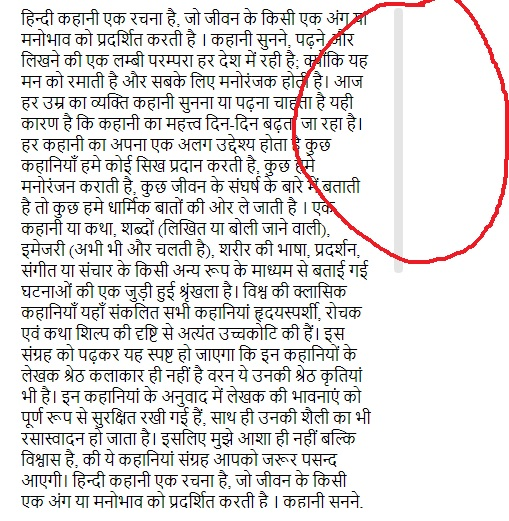
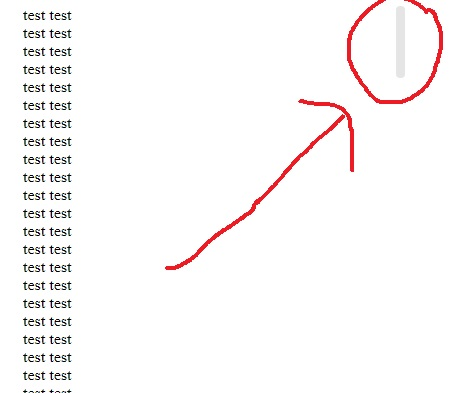
Add files via upload

diff --git a/index.html b/index.html
@@ -56,16 +56,7 @@
 <body>
 	<div class="container">
 		<div class="msg-page" sc-container>
-			हिन्दी कहानी एक रचना है, जो जीवन के किसी एक अंग या मनोभाव को प्रदर्शित करती है । कहानी सुनने, पढ़ने और लिखने की एक लम्बी परम्परा हर देश में रही है; क्योंकि यह मन को रमाती है और सबके लिए मनोरंजक होती है। आज हर उम्र का व्यक्ति कहानी सुनना या पढ़ना चाहता है यही कारण है कि कहानी का महत्त्व दिन-दिन बढ़ता जा रहा है। हर कहानी का अपना एक अलग उद्देश्य होता है कुछ कहानियाँ हमे कोई सिख प्रदान करती है, कुछ हमे मनोरंजन कराती है, कुछ जीवन के संघर्ष के बारे में बताती है तो कुछ हमे धार्मिक बातों की ओर ले जाती है ।
-			एक कहानी या कथा, शब्दों (लिखित या बोली जाने वाली), इमेजरी (अभी भी और चलती है), शरीर की भाषा, प्रदर्शन, संगीत या संचार के किसी अन्य रूप के माध्यम से बताई गई घटनाओं की एक जुड़ी हुई श्रृंखला है।
-
-विश्व की क्लासिक कहानियाँ 
-यहाँ संकलित सभी कहानियां हृदयस्पर्शी, रोचक एवं कथा शिल्प की दृष्टि से अत्यंत उच्चकोटि की हैं। इस संग्रह को पढ़कर यह स्पष्ट हो जाएगा कि इन कहानियों के लेखक श्रेठ कलाकार ही नहीं है वरन ये उनकी श्रेठ कृतियां भी है। इन कहानियां के अनुवाद में लेखक की भावनाएं को पूर्ण रूप से सुरक्षित रखी गई हैं, साथ ही उनकी शैली का भी रसास्वादन हो जाता है। इसलिए मुझे आशा ही नहीं बल्कि विश्वास है, की ये कहानियां संग्रह आपको जरूर पसन्द आएगी।
-			हिन्दी कहानी एक रचना है, जो जीवन के किसी एक अंग या मनोभाव को प्रदर्शित करती है । कहानी सुनने, पढ़ने और लिखने की एक लम्बी परम्परा हर देश में रही है; क्योंकि यह मन को रमाती है और सबके लिए मनोरंजक होती है। आज हर उम्र का व्यक्ति कहानी सुनना या पढ़ना चाहता है यही कारण है कि कहानी का महत्त्व दिन-दिन बढ़ता जा रहा है। हर कहानी का अपना एक अलग उद्देश्य होता है कुछ कहानियाँ हमे कोई सिख प्रदान करती है, कुछ हमे मनोरंजन कराती है, कुछ जीवन के संघर्ष के बारे में बताती है तो कुछ हमे धार्मिक बातों की ओर ले जाती है ।
-			एक कहानी या कथा, शब्दों (लिखित या बोली जाने वाली), इमेजरी (अभी भी और चलती है), शरीर की भाषा, प्रदर्शन, संगीत या संचार के किसी अन्य रूप के माध्यम से बताई गई घटनाओं की एक जुड़ी हुई श्रृंखला है।
-
-विश्व की क्लासिक कहानियाँ 
-यहाँ संकलित सभी कहानियां हृदयस्पर्शी, रोचक एवं कथा शिल्प की दृष्टि से अत्यंत उच्चकोटि की हैं। इस संग्रह को पढ़कर यह स्पष्ट हो जाएगा कि इन कहानियों के लेखक श्रेठ कलाकार ही नहीं है वरन ये उनकी श्रेठ कृतियां भी है। इन कहानियां के अनुवाद में लेखक की भावनाएं को पूर्ण रूप से सुरक्षित रखी गई हैं, साथ ही उनकी शैली का भी रसास्वादन हो जाता है। इसलिए मुझे आशा ही नहीं बल्कि विश्वास है, की ये कहानियां संग्रह आपको जरूर पसन्द आएगी।
+test test <br/>test test <br/>test test <br/>test test <br/>test test <br/>test test <br/>test test <br/>test test <br/>test test <br/>test test <br/>test test <br/>test test <br/>test test <br/>test test <br/>test test <br/>test test <br/>test test <br/>test test <br/>test test <br/>test test <br/>test test <br/>test test <br/>test test <br/>test test <br/>test test <br/>test test <br/>test test <br/>test test <br/>test test <br/>test test <br/>test test <br/>test test <br/>test test <br/>test test <br/>test test <br/>test test <br/>test test <br/>test test <br/>test test <br/>test test <br/>test test <br/>test test <br/>test test <br/>test test <br/>test test <br/>test test <br/>test test <br/>test test <br/>test test <br/>test test <br/>test test <br/>test test <br/>test test <br/>test test <br/>test test <br/>test test <br/>test test <br/>test test <br/>test test <br/>test test <br/>test test <br/>test test <br/>test test <br/>test test <br/>test test <br/>test test <br/>test test <br/>test test <br/>test test <br/>test test <br/>test test <br/>test test <br/>test test <br/>test test <br/>test test <br/>test test <br/>test test <br/>test test <br/>test test <br/>test test <br/>test test <br/>test test <br/>test test <br/>test test <br/>test test <br/>test test <br/>test test <br/>test test <br/>test test <br/>test test <br/>test test <br/>test test <br/>test test <br/>test test <br/>test test <br/>test test <br/>test test <br/>test test <br/>test test <br/>test test <br/>test test <br/>test test <br/>test test <br/>test test <br/>test test <br/>test test <br/>test test <br/>test test <br/>test test <br/>test test <br/>test test <br/>test test <br/>test test <br/>test test <br/>test test <br/>test test <br/>test test <br/>test test <br/>test test <br/>test test <br/>test test <br/>test test <br/>test test <br/>test test <br/>test test <br/>test test <br/>test test <br/>test test <br/>test test <br/>test test <br/>test test <br/>test test <br/>test test <br/>test test <br/>test test <br/>test test <br/>test test <br/>test test <br/>test test <br/>test test <br/>test test <br/>test test <br/>test test <br/>test test <br/>test test <br/>test test <br/>test test <br/>test test <br/>test test <br/>test test <br/>test test <br/>test test <br/>test test <br/>test test <br/>test test <br/>test test <br/>test test <br/>test test <br/>test test <br/>test test <br/>test test <br/>test test <br/>test test <br/>test test <br/>test test <br/>test test <br/>test test <br/>test test <br/>test test <br/>test test <br/>test test <br/>test test <br/>test test <br/>test test <br/>test test <br/>test test <br/>test test <br/>test test <br/>test test <br/>test test <br/>test test <br/>test test <br/>test test <br/>test test <br/>test test <br/>test test <br/>test test <br/>test test <br/>test test <br/>test test <br/>test test <br/>test test <br/>test test <br/>
 		</div>
 	</div>
 </body>
